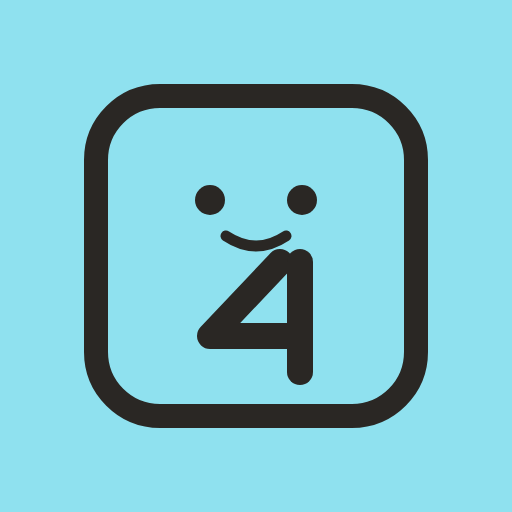
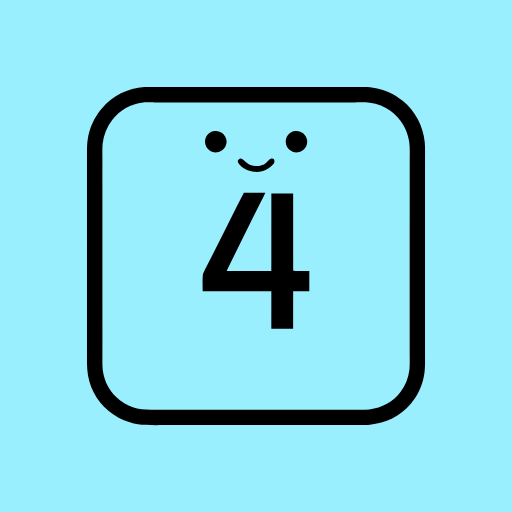
アイコンをユーザー提供の実データに差し替え
手描きの近似ベクターから、ユーザーが提供した実際のSVGパスデータに
置き換え。背景色は #99EFFE（水色）。C2PAの来歴メタデータは見た目に
関係なくファイルを肥大化させるだけのため除去し、実際に描画される
パスのみを残した。maskable版は同じパスをsafe zone内に収まるよう
スケールした別ソースから生成。

CACHE_VERSIONをv20に更新。

diff --git a/sw.js b/sw.js
@@ -5,7 +5,7 @@
    ・Firebase / Google 系の通信は常にネット直結（キャッシュしない＝同期・ログインに影響なし）
    ※ アプリを更新したら下の CACHE_VERSION の数字を1つ上げてコミットしてください。 */
 
-const CACHE_VERSION = 'hsk4-cache-v19';
+const CACHE_VERSION = 'hsk4-cache-v20';
 const PRECACHE = [
   './',
   './index.html',
